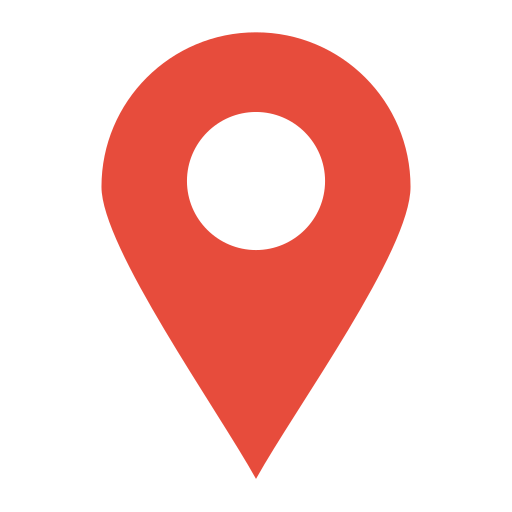
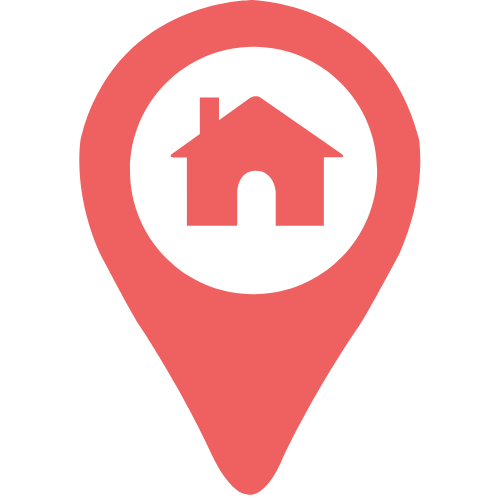
updated meta data

diff --git a/app/layout.js b/app/layout.js
@@ -12,8 +12,11 @@ const geistMono = Geist_Mono({
 });
 
 export const metadata = {
-  title: "Create Next App",
-  description: "Generated by create next app",
+  title: "Property Location Map",
+  description: "An interactive map displaying properties from Notion.",
+  icons: {
+    icon: "/favicon.png",
+  },
 };
 
 export default function RootLayout({ children }) {

diff --git a/app/page.js b/app/page.js
@@ -1,6 +1,5 @@
 "use client"
 
-import { useEffect, useState } from 'react';
 import dynamic from 'next/dynamic';
 import './globals.css';
 import 'leaflet/dist/leaflet.css';

diff --git a/README.md b/README.md
@@ -1,36 +1,32 @@
-This is a [Next.js](https://nextjs.org) project bootstrapped with [`create-next-app`](https://github.com/vercel/next.js/tree/canary/packages/create-next-app).
+# Property Search Map
 
-## Getting Started
+A **dynamic, interactive map** that displays properties from a **Notion database** using **Next.js, Leaflet.js, and the Notion API**. Users can view property locations, details, and key information in a user-friendly map interface.
 
-First, run the development server:
+![Property Map Screenshot](https://imgur.com/a/ck83lWa)
 
-```bash
-npm run dev
-# or
-yarn dev
-# or
-pnpm dev
-# or
-bun dev
-```
+---
 
-Open [http://localhost:3000](http://localhost:3000) with your browser to see the result.
+## Features
 
-You can start editing the page by modifying `app/page.js`. The page auto-updates as you edit the file.
+**Fetches property data from Notion**  
+**Displays locations using Leaflet.js**  
+**Custom map marker**  
+**Handles missing property data with defaults**  
+**Deployable on Vercel for live usage**  
 
-This project uses [`next/font`](https://nextjs.org/docs/app/building-your-application/optimizing/fonts) to automatically optimize and load [Geist](https://vercel.com/font), a new font family for Vercel.
+---
 
-## Learn More
+## Tech Stack
 
-To learn more about Next.js, take a look at the following resources:
+- **Frontend:** Next.js (App Router), React, Leaflet.js
+- **Backend:** Notion API, Next.js API routes
+- **Deployment:** Vercel
 
-- [Next.js Documentation](https://nextjs.org/docs) - learn about Next.js features and API.
-- [Learn Next.js](https://nextjs.org/learn) - an interactive Next.js tutorial.
+---
 
-You can check out [the Next.js GitHub repository](https://github.com/vercel/next.js) - your feedback and contributions are welcome!
+## 📦 Installation & Setup
 
-## Deploy on Vercel
-
-The easiest way to deploy your Next.js app is to use the [Vercel Platform](https://vercel.com/new?utm_medium=default-template&filter=next.js&utm_source=create-next-app&utm_campaign=create-next-app-readme) from the creators of Next.js.
-
-Check out our [Next.js deployment documentation](https://nextjs.org/docs/app/building-your-application/deploying) for more details.
+### 1⃣ **Clone the Repository**
+```sh
+git clone https://github.com/mrgnringrose/property-map.git
+cd property-map
